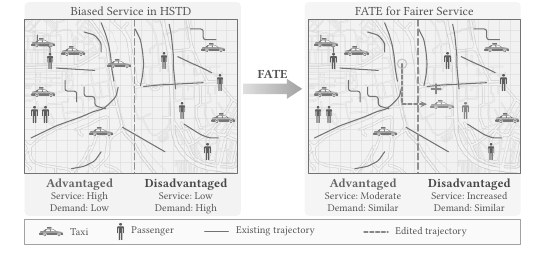
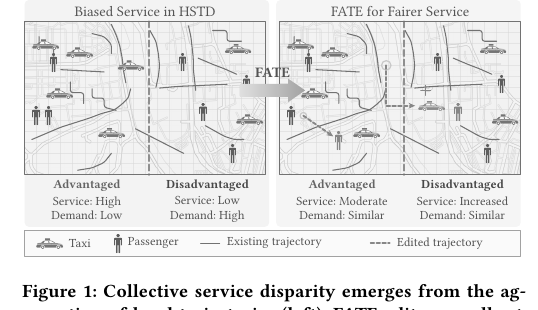
paper(fig-1 tikz v3): trim channel ON (relocates the pair's right member within advantaged tint — counts conserved 3/3, ghost+dashed+amber vocabulary parallel to lift); Zhang's overlay-arrow composition (0.24cm gap ≈1.2 cells, FATE label+arrow drawn over panel inner edges, panels 3.60→4.08cm, mid-le

Changed region(s): [[0.0297, 0.0, 0.9814, 1.0]]

diff --git a/paper/figures/figure-1/figure-1-teaser.tex b/paper/figures/figure-1/figure-1-teaser.tex
@@ -91,7 +91,9 @@
 \definecolor{tzZtaxi}{HTML}{639CE2}%  Zhang taxi blue (measured)
 \definecolor{tzZedit}{HTML}{F7BB07}%  Zhang edit orange (measured)
 % ---- toggles ---------------------------------------------------------
-\newif\ifshowTrimEdit\showTrimEditfalse%     advantaged-side trim overlay
+\newif\ifshowTrimEdit\showTrimEdittrue%      advantaged-side trim overlay
+%                          (ON, Robert 2026-07-25 v3: both edit channels
+%                          shown; false = lift-only teaser)
 \newif\ifshowVacatedGhost\showVacatedGhosttrue% open circle at vacated taxi
 \newif\ifshowAddedMark\showAddedMarktrue%    small + beside the orange taxi
 \newif\ifshowCardTints\showCardTintstrue%    Zhang's pink/green outer cards
@@ -127,12 +129,17 @@
 %                              tzZedit to restore the PNG's orange
 % ---- geometry (cm) ---------------------------------------------------
 \def\tzW{8.40}%      canvas width (8.40 cm = 239.0 pt <= \columnwidth)
-\def\tzPW{3.60}%     panel width  (two panels; center zone = W - 2*PW)
+\def\tzGap{0.24}%    gap between the panels: slightly larger than ONE
+%                    grid cell (Zhang's overlay-arrow approach, Robert
+%                    2026-07-25 v3; the FATE arrow+label overlay the
+%                    panels' inner edges instead of living in the gap)
+\pgfmathsetmacro\tzPW{(\tzW-\tzGap)/2}% panel width (= 4.08, grew from
+%                    3.60 when the center zone was surrendered)
 \def\tzPH{2.60}%     panel height
-\def\tzTitleH{0.30}% title band height (titles sit inside it)
-\def\tzLabelH{0.72}% label band height (side labels only -- keep clear)
+\def\tzTitleH{0.36}% title band height (titles sit inside it)
+\def\tzLabelH{0.88}% label band height (side labels only -- keep clear)
 \def\tzLegGap{0.06}% gap between label band and legend band
-\def\tzLegH{0.42}%   legend band height
+\def\tzLegH{0.44}%   legend band height
 \def\tzInPad{0.10}%  inner panel margin the icons respect (documentation;
 %                    the position lists below already honor it)
 \def\tzBx{0.517}%    district boundary x as a FRACTION of panel width
@@ -147,15 +154,16 @@
 \pgfmathsetmacro\tzLcx{\tzPW/2}%       left panel center
 \pgfmathsetmacro\tzRcx{\tzRPx+\tzPW/2}% right panel center
 \pgfmathsetmacro\tzArrY{\tzPanelTop-0.45*\tzPH}% block-arrow center y
-% ---- fonts (exact sizes; report legibility in FIG1_TIKZ_REPORT.md) ---
-\def\tzTitleFont{\scriptsize}%                     panel titles (7 pt)
-\def\tzSideFont{\fontsize{6}{7}\selectfont\bfseries}% Advantaged/Disadv.
-\def\tzInfoFont{\tiny}%                            Service/Demand (5 pt)
-\def\tzLegendFont{\tiny}%                          legend entries (5 pt)
-\def\tzFateFont{\scriptsize\bfseries}%             center FATE label
-% ---- icon geometry ---------------------------------------------------
-\def\tzTaxiW{0.46}%      Zhang taxi icon width in cm (aspect 181:82)
-\def\tzPickH{0.30}%      Zhang passenger icon height in cm (aspect 62:148)
+% ---- fonts (one level up per Robert 2026-07-25 v3; exact sizes and
+% ---- legibility in FIG1_TIKZ_REPORT.md) ------------------------------
+\def\tzTitleFont{\footnotesize}%                   panel titles (8 pt)
+\def\tzSideFont{\scriptsize\bfseries}%             Advantaged/Disadv. (7 pt)
+\def\tzInfoFont{\scriptsize}%                      Service/Demand (7 pt)
+\def\tzLegendFont{\scriptsize}%                    legend entries (7 pt)
+\def\tzFateFont{\footnotesize\bfseries}%           center FATE label (8 pt)
+% ---- icon geometry (bumped v3 to keep Zhang's icon:panel ratio) ------
+\def\tzTaxiW{0.50}%      Zhang taxi icon width in cm (aspect 181:82)
+\def\tzPickH{0.33}%      Zhang passenger icon height in cm (aspect 62:148)
 \def\tzTaxiScale{1.55}%  drawn-fallback taxi scale (base 0.248 cm wide)
 \def\tzPickScale{1.25}%  drawn-fallback passenger scale (base 0.234 cm)
 \def\tzTaxiDy{0.0}%      vertical centering nudge for taxis (cm)
@@ -182,16 +190,22 @@
 % ---- icon positions: panel-fraction pairs x/y, measured from the PNG --
 % Conservation is visible here: right adv taxis = left adv taxis MINUS
 % the vacated one (\tzVacated); right dis gains exactly the orange taxi.
-\def\tzAdvTaxis{0.086/0.150, 0.228/0.203, 0.442/0.287, 0.086/0.470,
+% (the mid-left taxi sits at x=0.145, not the PNG's 0.086, so the FATE
+% arrowhead overlaying the right panel's left edge lands clear of it)
+\def\tzAdvTaxis{0.086/0.150, 0.228/0.203, 0.442/0.287, 0.145/0.470,
                 0.360/0.729}%                       left panel: 5
-\def\tzAdvTaxisR{0.086/0.150, 0.228/0.203, 0.086/0.470,
+\def\tzAdvTaxisR{0.086/0.150, 0.228/0.203, 0.145/0.470,
                  0.360/0.729}%                      right panel: 4
 \def\tzVacatedX{0.442}\def\tzVacatedY{0.287}%       the taxi that left
 \def\tzDisTaxis{0.886/0.182, 0.934/0.639}%          both panels: 2
 \def\tzOrangeTaxiX{0.630}\def\tzOrangeTaxiY{0.550}% right panel: +1 (PNG
 %            had the pair at ~(0.61,0.39); moved to the open lower-middle
 %            so the rerouted path and the pair sit clear of other icons)
-\def\tzAdvPicks{0.119/0.269, 0.047/0.615, 0.098/0.615}% both panels: 3
+% advantaged passengers: 3 in BOTH panels. The list holds the two that
+% trim never touches; the third is \tzTrimFrom* (drawn dark in the left
+% panel; in the right panel it is the trim edit's subject when
+% \showTrimEdit is on, else drawn dark unchanged there too).
+\def\tzAdvPicksKept{0.119/0.269, 0.047/0.615}%
 \def\tzDisPicks{0.655/0.266, 0.920/0.409, 0.861/0.860}% both panels: 3 dark
 \def\tzServedX{0.740}\def\tzServedY{0.590}%  4th dis passenger: dark on the
 %            left, RECOLORED tzEdit on the right (served, not moved); PNG
@@ -199,12 +213,17 @@
 %            panels, so demand visibly does not move)
 % edited trajectory (fraction waypoints THROUGH \pxy; vacated position ->
 % down -> east across the boundary -> arrowhead at the taxi's west edge
-% (0.560 = \tzOrangeTaxiX - half of \tzTaxiW/\tzPW, minus a small gap)):
+% (0.562 = \tzOrangeTaxiX - half of \tzTaxiW/\tzPW, minus a small gap)):
 \def\tzEditPath{\pxy{\tzVacatedX}{\tzOrangeTaxiY}
-                -- \pxy{0.560}{\tzOrangeTaxiY}}%
-% optional trim overlay (both endpoints INSIDE the advantaged tint):
-\def\tzTrimFromX{0.200}\def\tzTrimFromY{0.500}%
-\def\tzTrimToX{0.310}\def\tzTrimToY{0.560}%
+                -- \pxy{0.562}{\tzOrangeTaxiY}}%
+% trim overlay (the second edit channel; ON per Robert 2026-07-25 v3):
+% relocates the recorded pickup \tzTrimFrom* (the right member of the
+% passenger pair) to \tzTrimTo* -- BOTH endpoints inside the advantaged
+% tint (boundary fraction \tzBx), which is the ALGORITHM_FACTS guard.
+\def\tzTrimFromX{0.098}\def\tzTrimFromY{0.615}%
+\def\tzTrimToX{0.245}\def\tzTrimToY{0.775}%
+\def\tzTrimArrX{0.222}\def\tzTrimArrY{0.750}% arrowhead stops here, just
+%                    short of the relocated passenger icon
 % ---------------------------------------------------------------------
 % helper: panel-fraction pair -> local cm coordinate
 \providecommand{\pxy}[2]{({#1*\tzPW},{-#2*\tzPH})}%
@@ -372,9 +391,12 @@
     \foreach \fx/\fy in \tzDisTaxis
       \pic[tzTaxiInk] at ({\fx*\tzPW},{-\fy*\tzPH+\tzTaxiDy})
         [scale=\tzTaxiScale] {taxi};
-    \foreach \fx/\fy in \tzAdvPicks
+    \foreach \fx/\fy in \tzAdvPicksKept
       \pic[tzink] at ({\fx*\tzPW},{-\fy*\tzPH+\tzPickDy})
         [scale=\tzPickScale] {pick};
+    % the pickup trim will relocate: recorded (dark, unmoved) here
+    \pic[tzink] at ({\tzTrimFromX*\tzPW},{-\tzTrimFromY*\tzPH+\tzPickDy})
+      [scale=\tzPickScale] {pick};
     \foreach \fx/\fy in \tzDisPicks
       \pic[tzink] at ({\fx*\tzPW},{-\fy*\tzPH+\tzPickDy})
         [scale=\tzPickScale] {pick};
@@ -382,15 +404,6 @@
     \pic[tzink] at ({\tzServedX*\tzPW},{-\tzServedY*\tzPH+\tzPickDy})
       [scale=\tzPickScale] {pick};
   \end{scope}
-
-  % ================= center: FATE + block arrow ========================
-  \node[anchor=south, font=\tzFateFont, inner sep=1.5pt]
-    at (\tzCx,{\tzArrY+0.12}) {\tzFateLabel};
-  \shade[left color=tzrule!35, right color=tzrule]
-    ({\tzCx-0.50},{\tzArrY+0.09}) -- ({\tzCx+0.24},{\tzArrY+0.09})
-    -- ({\tzCx+0.24},{\tzArrY+0.17}) -- ({\tzCx+0.50},\tzArrY)
-    -- ({\tzCx+0.24},{\tzArrY-0.17}) -- ({\tzCx+0.24},{\tzArrY-0.09})
-    -- ({\tzCx-0.50},{\tzArrY-0.09}) -- cycle;
 
   % ================= RIGHT panel: FATE for Fairer Service ==============
   \begin{scope}[shift={(\tzRPx,\tzPanelTop)}]
@@ -401,13 +414,30 @@
     \foreach \fx/\fy in \tzDisTaxis
       \pic[tzTaxiInk] at ({\fx*\tzPW},{-\fy*\tzPH+\tzTaxiDy})
         [scale=\tzTaxiScale] {taxi};
-    \foreach \fx/\fy in \tzAdvPicks
+    \foreach \fx/\fy in \tzAdvPicksKept
       \pic[tzink] at ({\fx*\tzPW},{-\fy*\tzPH+\tzPickDy})
         [scale=\tzPickScale] {pick};
+    % ---- trim (outcome-side edit): the recorded pickup relocated
+    % ---- WITHIN the advantaged area -- ghost at the recorded position,
+    % ---- dashed edit arrow, amber passenger at the new position. Count
+    % ---- unchanged: this is the SAME third passenger the left panel
+    % ---- draws dark at \tzTrimFrom*.
+    \ifshowTrimEdit
+      \draw[tzghost] ({\tzTrimFromX*\tzPW},{-\tzTrimFromY*\tzPH})
+        circle[radius=0.055];
+      \draw[tzedit, tzarrhead]
+        ({\tzTrimFromX*\tzPW},{-\tzTrimFromY*\tzPH})
+        -- ({\tzTrimArrX*\tzPW},{-\tzTrimArrY*\tzPH});
+      \pic[tzEdit] at ({\tzTrimToX*\tzPW},{-\tzTrimToY*\tzPH+\tzPickDy})
+        [scale=\tzPickScale] {pickedit};
+    \else % trim hidden: the third passenger sits unmoved, dark
+      \pic[tzink] at ({\tzTrimFromX*\tzPW},{-\tzTrimFromY*\tzPH+\tzPickDy})
+        [scale=\tzPickScale] {pick};
+    \fi
     \foreach \fx/\fy in \tzDisPicks
       \pic[tzink] at ({\fx*\tzPW},{-\fy*\tzPH+\tzPickDy})
         [scale=\tzPickScale] {pick};
-    % ---- the ONE edit (lift): presence moved under conservation ------
+    % ---- lift (resource-aware edit): presence moved under conservation
     \ifshowVacatedGhost % open circle where the departing taxi was
       \draw[tzghost] ({\tzVacatedX*\tzPW},{-\tzVacatedY*\tzPH})
         circle[radius=0.08];
@@ -429,16 +459,18 @@
     % the served passenger: same position as the left panel, recolored
     \pic[tzEdit] at ({\tzServedX*\tzPW},{-\tzServedY*\tzPH+\tzPickDy})
       [scale=\tzPickScale] {pickedit};
-    \ifshowTrimEdit % optional second channel: trim, advantaged side only
-      \draw[tzghost] ({\tzTrimFromX*\tzPW},{-\tzTrimFromY*\tzPH})
-        circle[radius=0.055];
-      \draw[tzedit, tzarrhead]
-        ({\tzTrimFromX*\tzPW},{-\tzTrimFromY*\tzPH})
-        -- ({\tzTrimToX*\tzPW},{-\tzTrimToY*\tzPH});
-      \pic[tzEdit] at ({\tzTrimToX*\tzPW},{-\tzTrimToY*\tzPH+\tzPickDy})
-        [scale=\tzPickScale] {pickedit};
-    \fi
   \end{scope}
+
+  % ================= center: FATE + block arrow (drawn AFTER the panels
+  % ================= so it overlays their inner edges -- Zhang's
+  % ================= composition; the gap itself is only ~one grid cell)
+  \node[anchor=south, font=\tzFateFont, inner sep=1.5pt]
+    at (\tzCx,{\tzArrY+0.15}) {\tzFateLabel};
+  \shade[left color=tzrule!35, right color=tzrule]
+    ({\tzCx-0.55},{\tzArrY+0.11}) -- ({\tzCx+0.26},{\tzArrY+0.11})
+    -- ({\tzCx+0.26},{\tzArrY+0.20}) -- ({\tzCx+0.55},\tzArrY)
+    -- ({\tzCx+0.26},{\tzArrY-0.20}) -- ({\tzCx+0.26},{\tzArrY-0.11})
+    -- ({\tzCx-0.55},{\tzArrY-0.11}) -- cycle;
 
   % ================= label band (side labels ONLY) =====================
   \pgfmathsetmacro\tzAdvLx{\tzBx*\tzPW/2}%          adv half center
@@ -450,24 +482,24 @@
       at ({\dx+\tzDisLx},{\tzPanelBot-0.04}) {\tzDisName};
   }
   \node[anchor=north, font=\tzInfoFont, align=center, inner sep=1pt]
-    at (\tzAdvLx,{\tzPanelBot-0.28}) {\tzAdvInfoL};
+    at (\tzAdvLx,{\tzPanelBot-0.33}) {\tzAdvInfoL};
   \node[anchor=north, font=\tzInfoFont, align=center, inner sep=1pt]
-    at (\tzDisLx,{\tzPanelBot-0.28}) {\tzDisInfoL};
+    at (\tzDisLx,{\tzPanelBot-0.33}) {\tzDisInfoL};
   \node[anchor=north, font=\tzInfoFont, align=center, inner sep=1pt]
-    at ({\tzRPx+\tzAdvLx},{\tzPanelBot-0.28}) {\tzAdvInfoR};
+    at ({\tzRPx+\tzAdvLx},{\tzPanelBot-0.33}) {\tzAdvInfoR};
   \node[anchor=north, font=\tzInfoFont, align=center, inner sep=1pt]
-    at ({\tzRPx+\tzDisLx},{\tzPanelBot-0.28}) {\tzDisInfoR};
+    at ({\tzRPx+\tzDisLx},{\tzPanelBot-0.33}) {\tzDisInfoR};
 
   % ================= legend band =======================================
   \fill[tzband] (0,\tzLegTop) rectangle (\tzW,\tzLegBot);
   \draw[tzrule, line width=0.35pt] (0,\tzLegTop) rectangle (\tzW,\tzLegBot);
   \pgfmathsetmacro\tzLegY{(\tzLegTop+\tzLegBot)/2}%
-  \pic[tzTaxiInk] at (0.45,\tzLegY) [scale=\tzTaxiScale] {taxi};
-  \node[anchor=west, font=\tzLegendFont] at (0.72,\tzLegY) {\tzLegTaxi};
-  \pic[tzink] at (1.62,\tzLegY) [scale=\tzPickScale] {pick};
-  \node[anchor=west, font=\tzLegendFont] at (1.76,\tzLegY) {\tzLegPick};
-  \draw[tztraj] (3.05,\tzLegY) -- (3.45,\tzLegY);
-  \node[anchor=west, font=\tzLegendFont] at (3.53,\tzLegY) {\tzLegExist};
-  \draw[tzedit] (5.75,\tzLegY) -- (6.15,\tzLegY);
-  \node[anchor=west, font=\tzLegendFont] at (6.23,\tzLegY) {\tzLegEdit};
+  \pic[tzTaxiInk] at (0.42,\tzLegY) [scale=\tzTaxiScale] {taxi};
+  \node[anchor=west, font=\tzLegendFont] at (0.70,\tzLegY) {\tzLegTaxi};
+  \pic[tzink] at (1.58,\tzLegY) [scale=\tzPickScale] {pick};
+  \node[anchor=west, font=\tzLegendFont] at (1.70,\tzLegY) {\tzLegPick};
+  \draw[tztraj] (2.98,\tzLegY) -- (3.30,\tzLegY);
+  \node[anchor=west, font=\tzLegendFont] at (3.38,\tzLegY) {\tzLegExist};
+  \draw[tzedit] (5.86,\tzLegY) -- (6.18,\tzLegY);
+  \node[anchor=west, font=\tzLegendFont] at (6.26,\tzLegY) {\tzLegEdit};
 \end{tikzpicture}%

diff --git a/paper/figures/figure-1/FIG1_TIKZ_REPORT.md b/paper/figures/figure-1/FIG1_TIKZ_REPORT.md
@@ -1,4 +1,33 @@
-# FIG-1 TikZ RE-IMPLEMENTATION — report (2026-07-25, v2 same day)
+# FIG-1 TikZ RE-IMPLEMENTATION — report (2026-07-25, v3)
+
+**v3 (Robert's three post-integration changes, 2026-07-25):**
+1. **Trim channel shown** (`\showTrimEdittrue`, now the default). Drawn so
+   the invariants survive: trim takes the RIGHT MEMBER of the advantaged
+   passenger pair (`\tzTrimFrom` = the PNG's (0.098,0.615) passenger, dark
+   and unmoved in the left panel) and relocates it to `\tzTrimTo`
+   (0.245,0.775) — ghost circle at the recorded position, dashed amber
+   arrow, amber passenger at the new position, BOTH endpoints inside the
+   advantaged tint. Advantaged passenger count stays 3 in both panels
+   (moved, not added). Confusion judgment: low — the two channels use the
+   same ghost→dashed→amber vocabulary and each stays in its lane (trim
+   entirely inside the advantaged half, lift crossing into the
+   disadvantaged half); the lift path remains the dominant element.
+   `\showTrimEditfalse` returns to the lift-only teaser.
+2. **Zhang's overlay-arrow composition**: the panels now sit `\tzGap` =
+   0.24 cm apart (≈1.2 grid cells) and the FATE label + block arrow are
+   drawn AFTER the panels, overlaying their inner edges as in her PNG.
+   Panels grew 3.60 → 4.08 cm wide (+13%); all icon positions are
+   panel-fractions, so the layout rescaled automatically. The one manual
+   consequence: the mid-left advantaged taxi moved from the PNG's
+   x=0.086 to x=0.145 in BOTH panels so the arrowhead lands clear of it.
+3. **Fonts one level up**: titles `\footnotesize` (8 pt), side names
+   `\scriptsize` bold (7 pt), Service/Demand + legend `\scriptsize`
+   (7 pt), FATE `\footnotesize` bold (8 pt). The spec's ≥`\scriptsize`
+   acceptance check is now met by EVERY text element (v1/v2's 5-6 pt
+   shortfall is gone). Icons bumped to `\tzTaxiW`=0.50 / `\tzPickH`=0.33
+   to hold Zhang's icon:panel ratio. Bands grew to fit (title 0.36,
+   label 0.88, legend 0.44 cm): measured box now
+   **239.50 × 123.66 pt** — still 11.3 pt under the 135 pt cap.
 
 Deliverable: `figure-1-teaser.tex` (body) + `figure-1-teaser-test.tex` (harness),
 a drop-in TikZ alternative to Dr. Zhang's `teaser.png` (untouched, still the
@@ -39,9 +68,9 @@ From the harness (`\newsavebox` measurement, printed by the compiler):
 
 - **Width 239.50285 pt** vs `\columnwidth` = 241.14749 pt (1.64 pt to spare;
   Figure 2 is 239.80 pt, so the two figures are visually the same width).
-- **Height 116.83142 pt** (v2) vs the 135.0 pt hard cap → **18.17 pt of
-  headroom** (the PNG renders at 135.0 pt, so the TikZ version is ~1.6 text
-  lines SHORTER — a small page-budget gain if swapped in).
+- **Height 123.66023 pt** (v3) vs the 135.0 pt hard cap → **11.34 pt of
+  headroom** (the PNG renders at 135.0 pt, so the TikZ version is still ~1
+  text line SHORTER than the PNG despite the one-level font bump).
 - Harness log: 0 errors, 0 Overfull.
 
 Full manuscript gates (PNG still in place), all green:
@@ -55,25 +84,20 @@ fig1-on-p1: 1        (pdftotext p1 finds "Collective service disparity")
 
 ## 2. Font sizes and legibility call
 
+v3 sizes (one level up from v1/v2 per Robert):
+
 | Element | Macro | Size |
 |---|---|---|
-| Panel titles | `\tzTitleFont` | `\scriptsize` (7 pt) |
-| Advantaged / Disadvantaged | `\tzSideFont` | `\fontsize{6}{7}` bold (6 pt) |
-| Service/Demand lines | `\tzInfoFont` | `\tiny` (5 pt) |
-| Legend entries | `\tzLegendFont` | `\tiny` (5 pt) |
-| FATE center label | `\tzFateFont` | `\scriptsize` bold (7 pt) |
+| Panel titles | `\tzTitleFont` | `\footnotesize` (8 pt) |
+| Advantaged / Disadvantaged | `\tzSideFont` | `\scriptsize` bold (7 pt) |
+| Service/Demand lines | `\tzInfoFont` | `\scriptsize` (7 pt) |
+| Legend entries | `\tzLegendFont` | `\scriptsize` (7 pt) |
+| FATE center label | `\tzFateFont` | `\footnotesize` bold (8 pt) |
 
-Legibility at 100 % zoom of the compiled PDF: titles and side labels are
-comfortably legible; the 5 pt Service/Demand and legend lines are legible but
-small — **the same effective size the PNG itself renders at** (its in-panel
-text is ~5.5 pt at column width), so the conversion does not lose ground.
-The spec's "labels ≥ `\scriptsize`" acceptance check is met for titles and
-side names but **not** for the Service/Demand and legend lines; meeting it
-there would require either a taller figure (against the 135 pt cap) or
-shorter label text (the PI's wording, not to be improved). Stated trade-off,
-not silently shrunk: bump `\tzInfoFont`/`\tzLegendFont` to `\scriptsize` and
-the figure still fits the width, but the label band and legend grow ~6 pt
-combined — still under 135 pt if Robert prefers that trade.
+Legibility at 100 % zoom: everything is comfortably legible; every text
+element now meets the spec's ≥`\scriptsize` acceptance check (the v1/v2
+5–6 pt shortfall is resolved). "Service: Increased", the longest info
+line, still sits fully inside its half-panel column at 7 pt.
 
 ## 3. §5 invariant checklist (all checked)
 
@@ -83,7 +107,10 @@ drive every icon) and by count on the 300 dpi render.
 1. ✅ Disadvantaged passengers identical in both panels: `\tzDisPicks` (3) +
    the served passenger (1) are drawn in BOTH panels → 4/4. (The PNG had
    4→3; this is the semantic fix.)
-2. ✅ Advantaged passengers identical: `\tzAdvPicks` (3) drawn in both → 3/3.
+2. ✅ Advantaged passengers identical (v3, trim shown): left panel =
+   `\tzAdvPicksKept` (2) + the trim subject dark at `\tzTrimFrom` = 3;
+   right panel = 2 kept dark + the SAME passenger relocated in amber = 3.
+   Moved, not added.
 3. ✅ Conservation: advantaged taxis 5→4 (`\tzAdvTaxisR` = `\tzAdvTaxis`
    minus the vacated entry), disadvantaged 2→3 (+1 amber taxi). One leaves,
    one arrives; corpus total 7 in both panels.
@@ -92,15 +119,17 @@ drive every icon) and by count on the 300 dpi render.
    dashed rerouted trajectory, and the amber passenger — which is one of the
    four disadvantaged passengers RECOLORED in place (same coordinates in
    both panels), i.e. "the passenger who now gets served", not moved demand.
-5. ✅ Trim overlay (OFF by default): both endpoints at x-fractions
-   0.200/0.310, boundary at 0.517 — both inside the advantaged tint.
-   Verified in the toggle smoke test render.
+   (The trim channel's amber passenger sits on the ADVANTAGED side.)
+5. ✅ Trim edit (v3: ON by default): recorded position x=0.098, relocated
+   position x=0.245, arrowhead x=0.222 — all left of the 0.517 boundary,
+   inside the advantaged tint. Verified in source and render.
 6. ✅ Grayscale: `figure-1-teaser-preview-gray.png`. The 5-vs-2 / 4-vs-3
-   taxi asymmetry, bold side labels, boundary dash, edit dash + arrowhead
-   and "+" mark all survive with the tints gone.
-7. ✅ The edited trajectory is the right panel's most salient element: the
-   only dashed amber stroke (0.9 pt vs 0.5 pt gray solids), with the only
-   arrowhead in either panel, ending at the only amber taxi.
+   taxi asymmetry, bold side labels, boundary dash, both edit dashes +
+   arrowheads, ghosts and the "+" mark all survive with the tints gone.
+7. ✅ The edit vocabulary is the right panel's most salient element class;
+   within it the lift path dominates (longest dashed stroke, crosses the
+   boundary, ends at the amber taxi + "+"). The trim arrow is a shorter
+   parallel statement fully inside the advantaged half.
 
 ## 4. The semantic fix (FINAL_REVIEW_FINDINGS #1)
 
@@ -132,7 +161,8 @@ Decisions **awaiting Robert** are marked ⚖.
 | D8 | Orange pair moved from ~(0.61,0.39) to (0.63,0.55)/(0.74,0.59) | The PNG position collides with a dark passenger once the pair is enlarged for print; open lower-middle keeps the focal edit clean; served passenger sits at the SAME spot in both panels | `\tzOrangeTaxiX/Y`, `\tzServedX/Y` |
 | D9 | "+" added-presence mark beside the amber taxi (not in the PNG) | Figure-2's grayscale carrier for "added presence"; kills any residual "moved demand" reading | `\showAddedMarkfalse` |
 | D10 | FATE label bold (PNG regular) | Salience of the one named actor in the figure | `\tzFateFont` |
-| D11 | Trim-channel overlay exists but is OFF | One clean channel beats two crowded ones; overlay verified correct (both endpoints advantaged) | `\showTrimEdittrue` |
+| D11 | v3 (Robert 2026-07-25): trim-channel overlay ON — both edit channels shown, method depicted in full | drawn as a relocation of an existing advantaged passenger (counts conserved); low confusion risk (see v3 note 1) | `\showTrimEditfalse` returns to lift-only |
+| D12 | v3: mid-left advantaged taxi at x=0.145 (PNG: 0.086), both panels | keeps the overlaid FATE arrowhead from landing on it | `\tzAdvTaxis`/`\tzAdvTaxisR` lists |
 
 All toggle paths compile-tested (Zhang look = D2+D3+D4 flipped together;
 trim overlay; raster background): 0 errors each, renders inspected.

diff --git a/paper/restructure/figures/FIG1_TEASER_SPEC.md b/paper/restructure/figures/FIG1_TEASER_SPEC.md
@@ -1,5 +1,15 @@
 # FIGURE 1 SPEC — teaser (Dr. Zhang's PNG; optional TikZ remake)
 
+> **v3 (Robert, 2026-07-25, post-integration):** trim channel ON (drawn as
+> a relocation of one existing advantaged passenger, counts conserved,
+> both endpoints inside the advantaged tint; `\showTrimEditfalse` = back
+> to lift-only); Zhang's overlay-arrow composition (panels 0.24 cm apart
+> ≈ 1.2 grid cells, FATE label+arrow drawn over the panels' inner edges,
+> panels 3.60→4.08 cm; mid-left taxi nudged x 0.086→0.145 clear of the
+> arrowhead); ALL fonts one level up (titles/FATE 8 pt, everything else
+> 7 pt — the ≥\scriptsize acceptance check now passes everywhere); icons
+> 0.50/0.33 cm keep her icon:panel ratio. Measured 239.50 × 123.66 pt.
+>
 > **v2 REFINEMENTS (Robert, 2026-07-25, same day):** Zhang's own taxi/
 > passenger icons adopted (extracted from teaser.png's legend + PIL
 > recolor variants, `icon-*.png`); grid ~2.4x finer (19x13); SZ street
